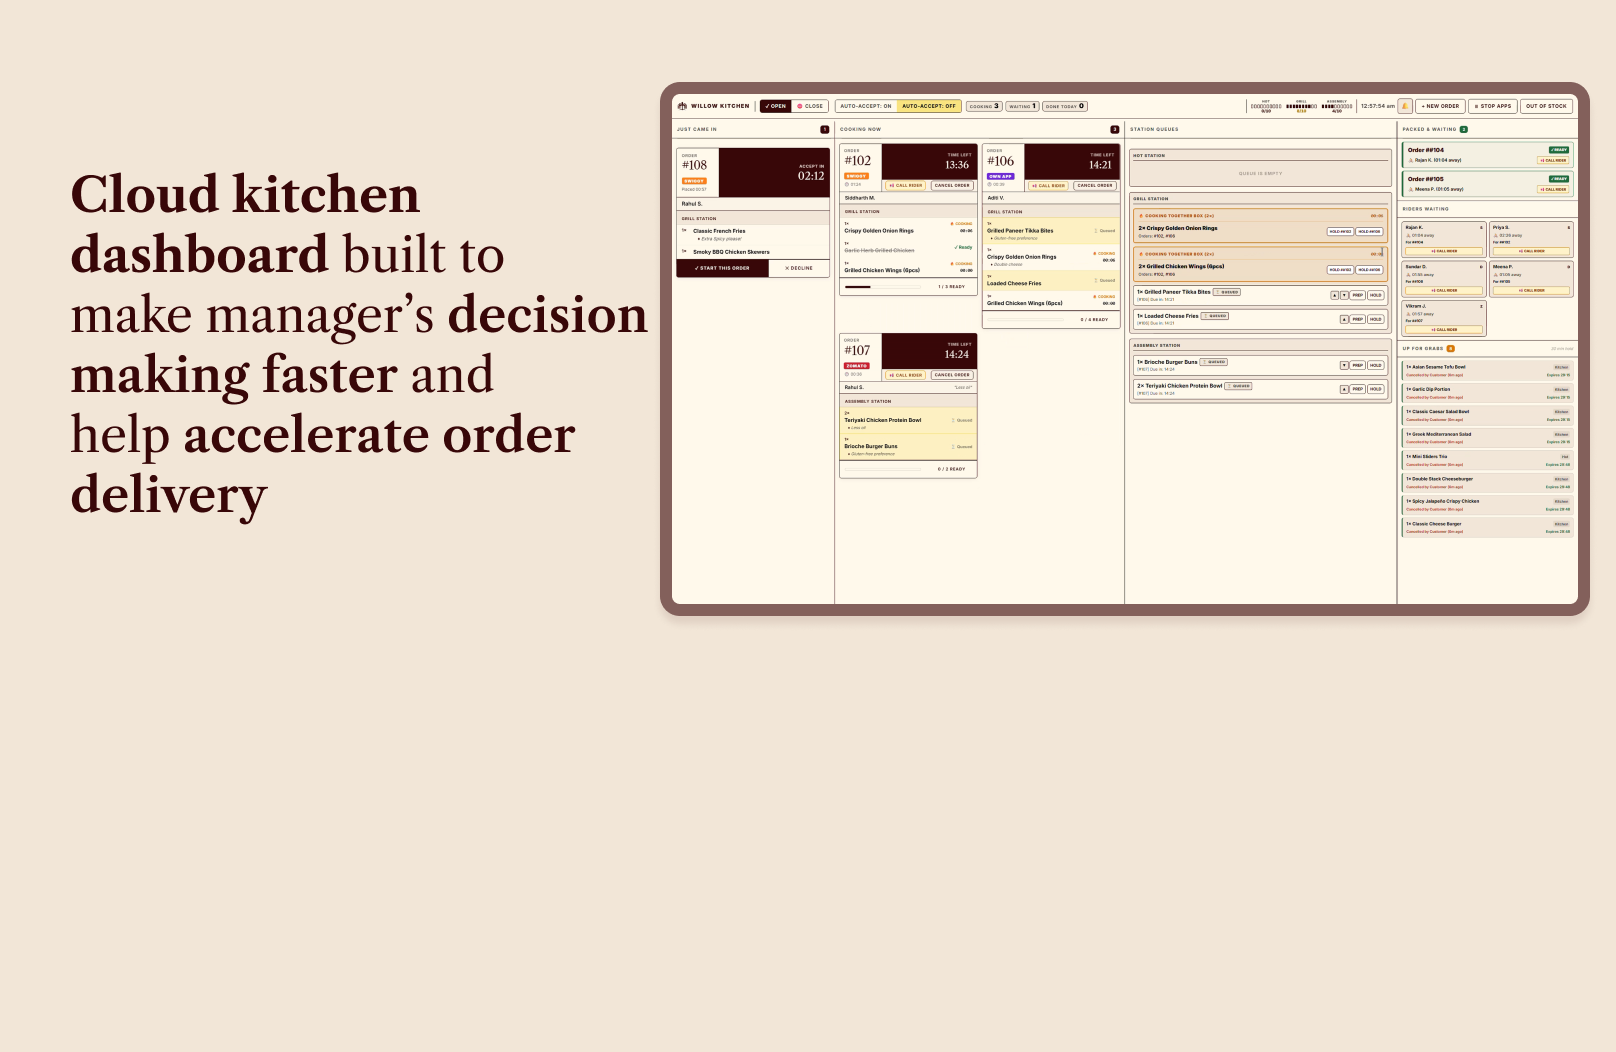
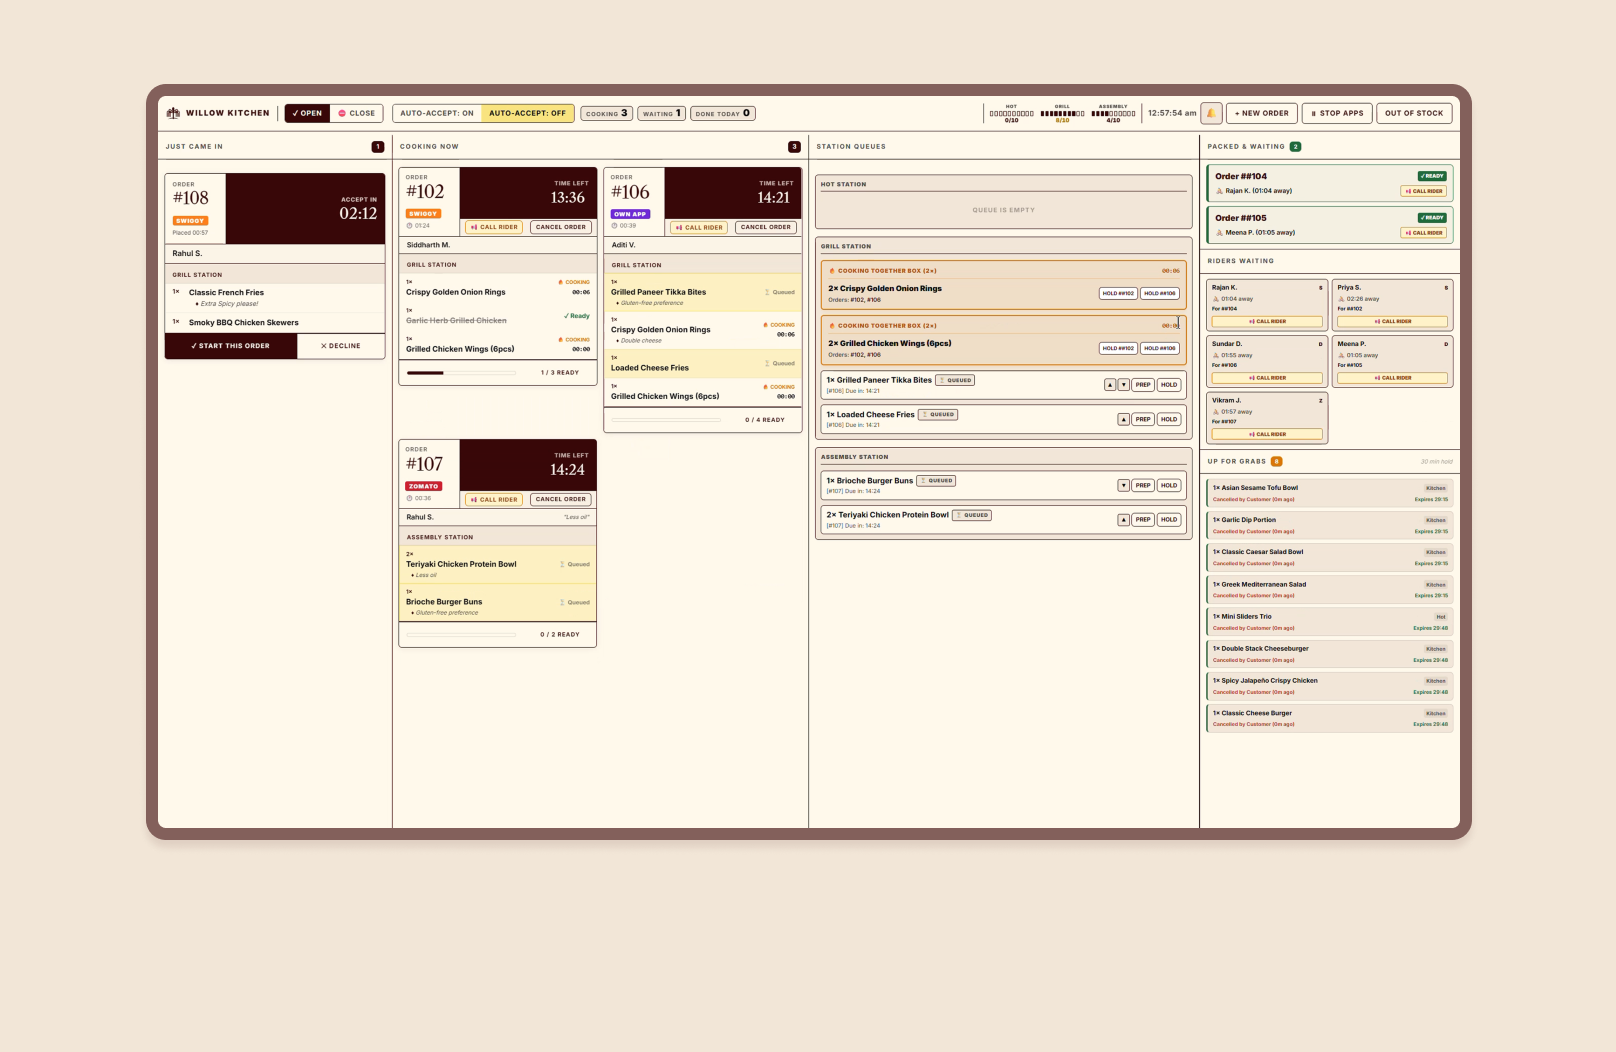
feat: Update Willow Kitchen card copy and sync latest cover image

Changed region(s): [[0.0309, 0.0608, 0.9901, 0.8213]]

diff --git a/index.html b/index.html
@@ -216,7 +216,7 @@
         <section class="bento-grid grid grid-cols-1 md:grid-cols-4 gap-4 animate-fade-in-up"
                  style="animation-delay: 0.3s;">
 
-                        <!-- Project 1 – Willow Kitchen -->
+                                    <!-- Project 1 – Willow Kitchen -->
             <div class="bento-card col-span-1 md:col-span-2 relative h-[340px] rounded-2xl
                         border border-zinc-200 dark:border-zinc-800">
                 <a href="case-study/index.html"
@@ -233,7 +233,7 @@
                         <span class="text-[10px] font-mono text-zinc-400 tracking-widest uppercase block mb-2">Cloud kitchen management dashboard</span>
                         <h3 class="text-xl font-serif text-white mb-1.5">Willow Kitchen</h3>
                         <p class="text-zinc-300 text-sm leading-relaxed line-clamp-2">
-                            A single-screen system managing orders from ping to rider handover&mdash;balancing station loads, saving canceled food, and calming kitchen chaos.
+                            A cloud kitchen management dashboard to handle orders from order arrival to rider handover balancing station loads, saving canceled food, and calming kitchen chaos.
                         </p>
                     </div>
                 </a>
